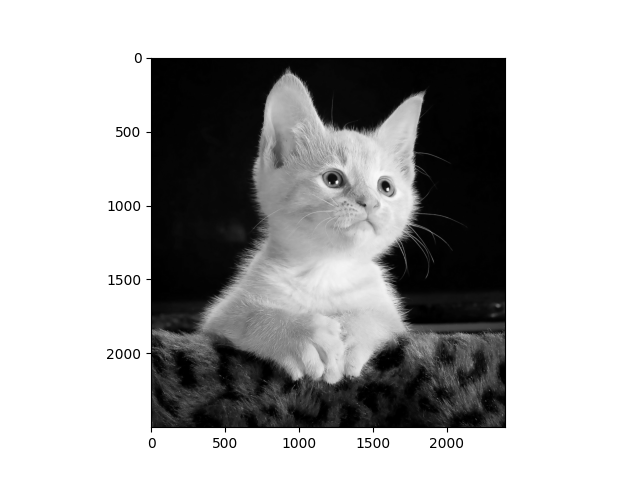
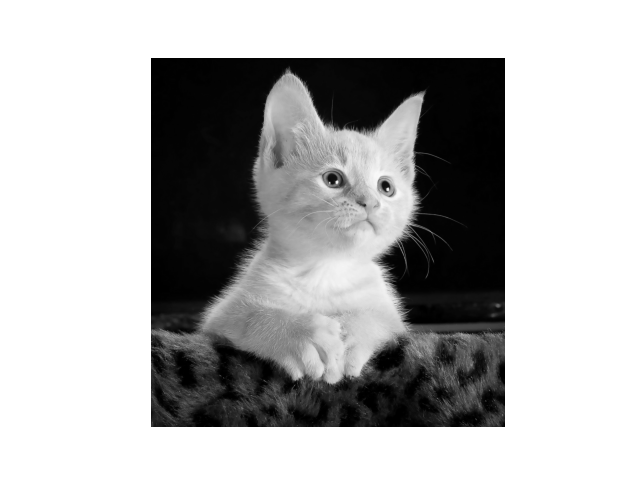
skimage

diff --git a/nuffield_students_exercises/4_more_on_images.py b/nuffield_students_exercises/4_more_on_images.py
@@ -17,7 +17,7 @@
 
 import numpy as np
 import matplotlib.pyplot as plt
-import skimage
+import skimage as ski
 
 # ~~~~~~~~~~~
 # Exercise 1.1
@@ -29,7 +29,10 @@ print("\n ~~~~~~~~~~~")
 print("Exercise 1.1")
 
 # ..... your code here .....
-
+coins = ski.data.coins()
+plt.axis('off')
+ski.io.imshow(coins)
+plt.show()
 # ~~~~~~~~~~~
 # Exercise 1.2
 # Plot the histogram of the image from Exercise 1.1 for each channel.
@@ -38,7 +41,12 @@ print("\n ~~~~~~~~~~~")
 print("Exercise 1.2")
 
 # ..... your code here .....
-
+plt.title("RGB Coins Histogram")
+plt.xlabel("RGB value")
+plt.ylabel("Pixel count")
+plt.hist(coins.flatten(), bins=256)
+print(coins.flatten().shape)
+plt.show()
 # ~~~~~~~~~~~
 # Exercise 1.3
 # Experiment with different threshold values applied to different channels.
@@ -48,9 +56,10 @@ print("Exercise 1.2")
 print("\n ~~~~~~~~~~~")
 print("Exercise 1.3")
 
-threshold = 100
-image = ... 
-channel = ...
+image = plt.imread("data/cat.jpeg")
+threshold = 50
+image = image
+channel = 0
 def thresholding(
         image: np.ndarray,
         threshold: int,
@@ -63,7 +72,7 @@ def thresholding(
     ----------
     image : np.ndarray
         The input image.
-    treshold : int
+    threshold : int
         The threshold value.
     RGB_channel : int
         The channel to apply the thresholding.
@@ -74,11 +83,27 @@ def thresholding(
         The resulting binary image.
     """
     # ..... your code here .....
+    # select channel with index given in input (image[:,:,0])-> will become like a grayscale image
+    .....
+    # apply threshold as in 1.6 (exercise 3) -> this will create a binary image
+    ......
+    binary_image = ...
     return binary_image
 
 binary_image = thresholding(image, threshold, channel)
-
 fig, ax = plt.subplots(1, 3, figsize=(10, 5))
+for channel in range(0, 3):
+    if channel == 0:
+        ax[0].imshow(image[:,:,0], cmap="Reds")
+    elif channel == 1:
+        ax[1].imshow(image[:,:,1], cmap="Greens")
+    elif channel == 2:
+        ax[2].imshow(image[:,:,2], cmap="Blues")
+    else:
+        print("This channel does not exist!😡")
+        
+np.where(image[channel] > threshold, 256, 0)
+
 ax[0].imshow(image)
 ax[0].set_title('Original image')
 ax[0].axis('off')

diff --git a/nuffield_students_exercises/3_from_arrays_to_images.py b/nuffield_students_exercises/3_from_arrays_to_images.py
@@ -33,6 +33,7 @@ print("Exercise 1.1")
 array1_4 = np.ones([10, 10])
 array1_4[1:9, 1:9] = 0
 plt.imshow(array1_4)
+plt.show()
 plt.close()
 # ~~~~~~~~~~~
 # Exercise 1.2
@@ -49,6 +50,7 @@ plt.imshow(image)
 plt.show()
 plt.close()
 
+plt.show()
 # ~~~~~~~~~~~
 # Exercise 1.3
 # Visualize RGB channels separately.
@@ -85,10 +87,11 @@ import matplotlib.image as mpimg
 def rgb2gray(rgb):
     return np.dot(rgb[...,:3], [0.2989, 0.5870, 0.01140])
 img_gray = rgb2gray(image)
+plt.axis('off')
 plt.imshow(img_gray, cmap=plt.get_cmap('gray'))
 plt.savefig('test.png')
 plt.show()
-print(image.shape)
+print(img_gray.shape)
 # ~~~~~~~~~~~
 # Exercise 1.5
 # Plot an histogram of the grayscale image from Exercise 1.4.
@@ -113,7 +116,9 @@ print("\n ~~~~~~~~~~~")
 print("Exercise 1.6")
 
 # ..... your code here .....
-
+plt.axis('off')
+plt.imshow(np.where(img_gray > 100, 256, 0), cmap='gray')
+plt.show()
 # ~~~~~~~~~~~
 # Exercise 1.7
 # Flip the grayscale image from Exercise 1.4 horizontally.
@@ -122,7 +127,9 @@ print("\n ~~~~~~~~~~~")
 print("Exercise 1.7")
 
 # ..... your code here .....
-
+plt.axis('off')
+plt.imshow(np.flip(img_gray, axis=1), cmap='gray')
+plt.show()
 # ~~~~~~~~~~~
 # Exercise 1.8
 # Rotate the grayscale image from Exercise 1.4 by 45 degrees.
@@ -131,7 +138,9 @@ print("\n ~~~~~~~~~~~")
 print("Exercise 1.8")
 
 # ..... your code here .....
-
+plt.axis('off')
+plt.imshow(np.rot90(img_gray), cmap='gray')
+plt.show()
 # ~~~~~~~~~~~
 # Exercise 1.9
 # Crop the grayscale image from Exercise 1.4 to a square of size 100x100 pixels.
@@ -140,7 +149,10 @@ print("\n ~~~~~~~~~~~")
 print("Exercise 1.9")
 
 # ..... your code here .....
-
+plt.axis('off')
+arrImg_gray = np.array(img_gray)
+plt.imshow(arrImg_gray[1200:1301, 1146:1247], cmap='gray')
+plt.show()
 # ~~~~~~~~~~~
 # Exercise 1.10
 # Resize the grayscale image from Exercise 1.4 to 200x200 pixels.
@@ -150,8 +162,10 @@ print("\n ~~~~~~~~~~~")
 print("Exercise 1.10")
 
 # ..... your code here .....
-
-
+plt.axis('off')
+plt.imshow(np.resize(img_gray, (200,200)), cmap='gray')
+plt.show()
+# ~~~~~~~~~~~
 
 # ⚄◉․﹒．~*~․﹒．◉⚄⚄◉․﹒．~*~․﹒．◉⚄⚄◉․﹒．~*~․﹒．◉⚄
 # References:
